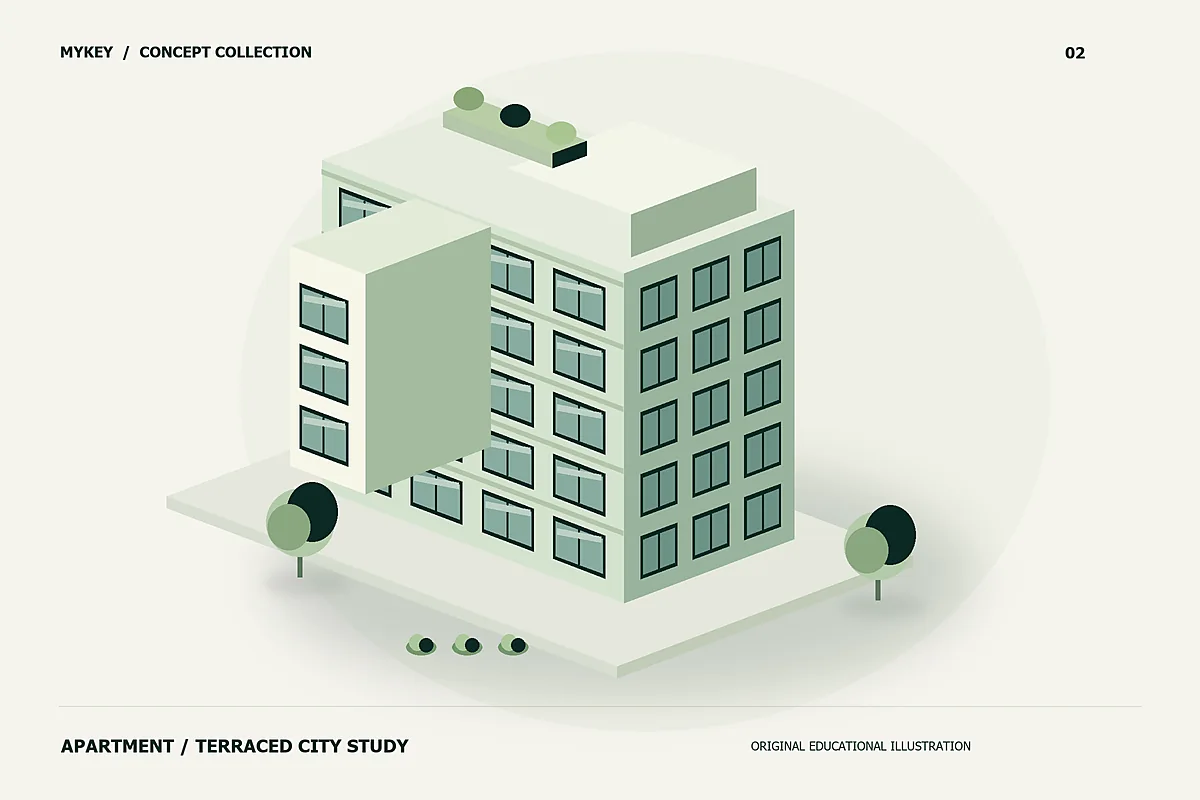
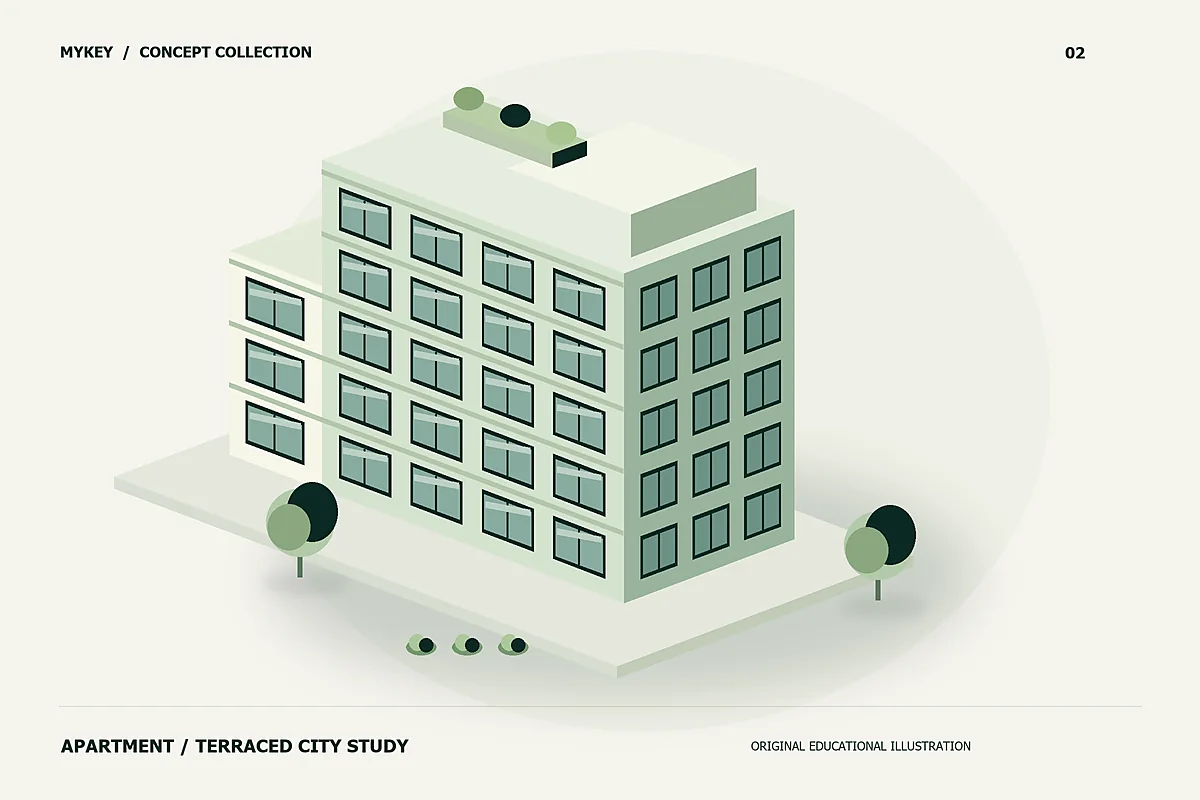
Fix media viewer controls and apartment illustration

Changed region(s): [[0.185, 0.25, 0.4317, 0.625], [0.0925, 0.5938, 0.1542, 0.625]]

diff --git a/expanded.css b/expanded.css
@@ -1,4 +1,4 @@
-.feature-hero{padding-block:55px 38px}.feature-hero h1{font-size:clamp(37px,4.5vw,66px);line-height:1.45;margin:0 0 18px;max-width:900px}.feature-hero>p:last-child{font-size:16px;color:#66805c;max-width:760px;line-height:2}.surface{background:#fffef9;border:1px solid white;border-radius:25px;padding:26px;box-shadow:0 18px 38px -17px #123c3338}.library-controls{display:grid;grid-template-columns:2fr 1fr 1fr auto;gap:20px;align-items:end}.library-controls label,.brief-form label{display:flex;flex-direction:column;gap:8px;font-size:13px;font-weight:700}.library-controls input,.library-controls select,.brief-form input,.brief-form select,.brief-form textarea{font:inherit;color:var(--ink);background:#f6f8ee;border:1px solid #d7e3cd;border-radius:12px;padding:12px;width:100%;min-height:46px}.small-button,.viewer-actions button,.viewer-actions a{font:inherit;font-size:12px;border:1px solid #c4d6b2;background:#eaf3db;color:var(--ink);border-radius:11px;padding:11px 17px;cursor:pointer;display:inline-flex;align-items:center;justify-content:center;gap:8px}.small-button:hover{background:var(--lime)}.feature-note{font-size:12px;color:#728667;line-height:2;margin:22px 0}.library-grid{display:grid;grid-template-columns:repeat(3,1fr);gap:24px;margin:25px 0 70px}.media-card{overflow:hidden;background:#fffef9;border:1px solid white;border-radius:24px;box-shadow:0 15px 30px -15px #123c3335;min-width:0}.media-card button{padding:0;border:0;background:none;width:100%;display:block;text-align:inherit}.media-thumb{position:relative;background:#e8efdc;aspect-ratio:1.5;overflow:hidden}.media-thumb img{width:100%;height:100%;object-fit:cover;transition:transform .25s}.media-card button:hover img{transform:scale(1.03)}.media-card .media-logo img{object-fit:contain;padding:40px}.media-card .media-play{position:absolute;inset:0;display:flex;align-items:center;justify-content:center;font-size:42px;color:var(--lime);text-shadow:0 3px 15px #102f2a88}.media-caption{padding:18px 20px}.media-caption h2{font-size:18px;line-height:1.6;margin:0 0 7px;letter-spacing:0}.media-caption p{font-size:11px;color:#70855f;margin:0}.media-viewer{padding:22px;width:min(1050px,calc(100% - 32px));max-height:92vh;overflow:auto;border:1px solid #fff;border-radius:24px;background:#fffef9;color:var(--ink);box-shadow:0 25px 75px #001b1a77}.media-viewer::backdrop{background:#092a25dd;backdrop-filter:blur(9px)}.viewer-toolbar{display:flex;align-items:center;justify-content:space-between;gap:20px;margin-bottom:16px}.viewer-toolbar h2{font-size:23px;line-height:1.5;letter-spacing:0}.viewer-close{width:40px;height:40px;font-size:29px;border:1px solid #d6e3ca;border-radius:50%;background:#edf4e5;flex-shrink:0}.media-viewer>img,.media-viewer>video{width:100%;max-height:62vh;object-fit:contain;border-radius:15px;background:#eaf0df}.media-viewer>img[hidden],.media-viewer>video[hidden]{display:none}.media-viewer>p{font-size:13px;line-height:1.9;margin-top:15px}.viewer-actions{display:flex;align-items:center;justify-content:center;gap:15px;flex-wrap:wrap;margin-top:18px}.viewer-actions p{font-size:12px;margin:0}.media-viewer details{font-size:13px;line-height:2}.empty-state{text-align:center;padding:45px;margin-bottom:60px}.empty-state h2{font-size:27px}.brief-layout{display:grid;grid-template-columns:1.2fr .8fr;align-items:start;gap:28px;margin-bottom:70px}.brief-form fieldset{border:0;padding:0;margin:0}.brief-form legend{font-size:25px;font-weight:bold;line-height:1.6;margin-bottom:22px}.brief-fields{display:grid;gap:20px}.brief-form textarea{min-height:120px;resize:vertical}.brief-checks{display:grid;grid-template-columns:1fr 1fr;gap:13px;margin:15px 0}.brief-checks label{flex-direction:row;align-items:center;gap:10px;background:#f0f6e7;padding:14px;border:1px solid #dce8cf;border-radius:12px;font-weight:400}.brief-checks input{width:17px;height:17px;min-height:0;accent-color:#466e36}.brief-navigation{display:flex;justify-content:space-between;gap:13px;margin-top:28px}.brief-progress{display:flex;gap:8px;margin:0 0 23px}.brief-progress span{height:6px;flex:1;background:#dfe8d4;border-radius:4px}.brief-progress span.done{background:#6e9650}.brief-preview{position:sticky;top:130px;background:linear-gradient(140deg,#153e32,#305c3a);color:#f5faec;border-color:#3b633c}.brief-preview h2{font-size:26px;line-height:1.5;margin-bottom:20px}.brief-preview pre{white-space:pre-wrap;font:13px/2 Tahoma,Arial,sans-serif;overflow-wrap:anywhere;margin:0}.brief-preview .small-button{margin:20px 0 0;background:var(--lime);border-color:#e5ff9b}.brief-status{min-height:28px;font-size:12px;line-height:1.8}.brief-help{font-size:12px;color:#748a65;line-height:2;margin:16px 0 0}.brief-step[hidden]{display:none}.brief-error{color:#9b392d;font-size:13px;min-height:24px}.brief-summary-actions{display:flex;gap:12px;flex-wrap:wrap}.brief-step-label{font-size:12px;color:#748a65;margin-bottom:12px}@media(max-width:1000px){.library-grid{grid-template-columns:1fr 1fr}.library-controls{grid-template-columns:1fr 1fr}.brief-layout{grid-template-columns:1fr}.brief-preview{position:static}}@media(max-width:600px){.feature-hero{padding-block:32px 24px}.feature-hero h1{font-size:38px}.feature-hero>p:last-child{font-size:14px}.library-controls{grid-template-columns:1fr;gap:17px}.surface{padding:22px;border-radius:22px}.library-grid{grid-template-columns:1fr;gap:23px;margin-bottom:45px}.media-caption h2{font-size:19px}.media-caption p{font-size:12px}.media-viewer{padding:17px}.viewer-toolbar h2{font-size:19px}.viewer-actions{gap:9px}.viewer-actions button,.viewer-actions a{font-size:11px;padding:9px 11px}.brief-checks{grid-template-columns:1fr}.brief-form legend{font-size:23px}.brief-form label{font-size:13px}.brief-layout{gap:22px}.brief-preview pre{font-size:13px}.brief-summary-actions{flex-direction:column}.feature-note{font-size:12px}}@media(prefers-reduced-motion:reduce){.media-thumb img{transition:none}}
+.feature-hero{padding-block:55px 38px}.feature-hero h1{font-size:clamp(37px,4.5vw,66px);line-height:1.45;margin:0 0 18px;max-width:900px}.feature-hero>p:last-child{font-size:16px;color:#66805c;max-width:760px;line-height:2}.surface{background:#fffef9;border:1px solid white;border-radius:25px;padding:26px;box-shadow:0 18px 38px -17px #123c3338}.library-controls{display:grid;grid-template-columns:2fr 1fr 1fr auto;gap:20px;align-items:end}.library-controls label,.brief-form label{display:flex;flex-direction:column;gap:8px;font-size:13px;font-weight:700}.library-controls input,.library-controls select,.brief-form input,.brief-form select,.brief-form textarea{font:inherit;color:var(--ink);background:#f6f8ee;border:1px solid #d7e3cd;border-radius:12px;padding:12px;width:100%;min-height:46px}.small-button,.viewer-actions button{font:inherit;font-size:12px;border:1px solid #c4d6b2;background:#eaf3db;color:var(--ink);border-radius:11px;padding:11px 17px;cursor:pointer;display:inline-flex;align-items:center;justify-content:center;gap:8px}.small-button:hover{background:var(--lime)}.feature-note{font-size:12px;color:#728667;line-height:2;margin:22px 0}.library-grid{display:grid;grid-template-columns:repeat(3,1fr);gap:24px;margin:25px 0 70px}.media-card{overflow:hidden;background:#fffef9;border:1px solid white;border-radius:24px;box-shadow:0 15px 30px -15px #123c3335;min-width:0}.media-card button{padding:0;border:0;background:none;width:100%;display:block;text-align:inherit}.media-thumb{position:relative;background:#e8efdc;aspect-ratio:1.5;overflow:hidden}.media-thumb img{width:100%;height:100%;object-fit:cover;transition:transform .25s}.media-card button:hover img{transform:scale(1.03)}.media-card .media-logo img{object-fit:contain;padding:40px}.media-card .media-play{position:absolute;inset:0;display:flex;align-items:center;justify-content:center;font-size:42px;color:var(--lime);text-shadow:0 3px 15px #102f2a88}.media-caption{padding:18px 20px}.media-caption h2{font-size:18px;line-height:1.6;margin:0 0 7px;letter-spacing:0}.media-caption p{font-size:11px;color:#70855f;margin:0}.media-viewer{padding:22px;width:min(1050px,calc(100% - 32px));max-height:92vh;overflow:auto;border:1px solid #fff;border-radius:24px;background:#fffef9;color:var(--ink);box-shadow:0 25px 75px #001b1a77}.media-viewer::backdrop{background:#092a25dd;backdrop-filter:blur(9px)}.viewer-toolbar{display:flex;align-items:center;justify-content:space-between;gap:20px;margin-bottom:16px}.viewer-toolbar h2{font-size:23px;line-height:1.5;letter-spacing:0}.viewer-close{display:grid;place-items:center;width:40px;height:40px;padding:0;border:1px solid #d6e3ca;border-radius:50%;background:#edf4e5;flex-shrink:0}.viewer-close svg{display:block;width:20px;height:20px}.media-viewer>img,.media-viewer>video{width:100%;max-height:62vh;object-fit:contain;border-radius:15px;background:#eaf0df}.media-viewer>img[hidden],.media-viewer>video[hidden]{display:none}.media-viewer>p{font-size:13px;line-height:1.9;margin-top:15px}.viewer-actions{display:flex;align-items:center;justify-content:center;gap:15px;flex-wrap:wrap;margin-top:18px}.viewer-actions p{font-size:12px;margin:0}.media-viewer details{font-size:13px;line-height:2}.empty-state{text-align:center;padding:45px;margin-bottom:60px}.empty-state h2{font-size:27px}.brief-layout{display:grid;grid-template-columns:1.2fr .8fr;align-items:start;gap:28px;margin-bottom:70px}.brief-form fieldset{border:0;padding:0;margin:0}.brief-form legend{font-size:25px;font-weight:bold;line-height:1.6;margin-bottom:22px}.brief-fields{display:grid;gap:20px}.brief-form textarea{min-height:120px;resize:vertical}.brief-checks{display:grid;grid-template-columns:1fr 1fr;gap:13px;margin:15px 0}.brief-checks label{flex-direction:row;align-items:center;gap:10px;background:#f0f6e7;padding:14px;border:1px solid #dce8cf;border-radius:12px;font-weight:400}.brief-checks input{width:17px;height:17px;min-height:0;accent-color:#466e36}.brief-navigation{display:flex;justify-content:space-between;gap:13px;margin-top:28px}.brief-progress{display:flex;gap:8px;margin:0 0 23px}.brief-progress span{height:6px;flex:1;background:#dfe8d4;border-radius:4px}.brief-progress span.done{background:#6e9650}.brief-preview{position:sticky;top:130px;background:linear-gradient(140deg,#153e32,#305c3a);color:#f5faec;border-color:#3b633c}.brief-preview h2{font-size:26px;line-height:1.5;margin-bottom:20px}.brief-preview pre{white-space:pre-wrap;font:13px/2 Tahoma,Arial,sans-serif;overflow-wrap:anywhere;margin:0}.brief-preview .small-button{margin:20px 0 0;background:var(--lime);border-color:#e5ff9b}.brief-status{min-height:28px;font-size:12px;line-height:1.8}.brief-help{font-size:12px;color:#748a65;line-height:2;margin:16px 0 0}.brief-step[hidden]{display:none}.brief-error{color:#9b392d;font-size:13px;min-height:24px}.brief-summary-actions{display:flex;gap:12px;flex-wrap:wrap}.brief-step-label{font-size:12px;color:#748a65;margin-bottom:12px}@media(max-width:1000px){.library-grid{grid-template-columns:1fr 1fr}.library-controls{grid-template-columns:1fr 1fr}.brief-layout{grid-template-columns:1fr}.brief-preview{position:static}}@media(max-width:600px){.feature-hero{padding-block:32px 24px}.feature-hero h1{font-size:38px}.feature-hero>p:last-child{font-size:14px}.library-controls{grid-template-columns:1fr;gap:17px}.surface{padding:22px;border-radius:22px}.library-grid{grid-template-columns:1fr;gap:23px;margin-bottom:45px}.media-caption h2{font-size:19px}.media-caption p{font-size:12px}.media-viewer{padding:17px}.viewer-toolbar h2{font-size:19px}.viewer-actions{gap:9px}.viewer-actions button{font-size:11px;padding:9px 11px}.brief-checks{grid-template-columns:1fr}.brief-form legend{font-size:23px}.brief-form label{font-size:13px}.brief-layout{gap:22px}.brief-preview pre{font-size:13px}.brief-summary-actions{flex-direction:column}.feature-note{font-size:12px}}@media(prefers-reduced-motion:reduce){.media-thumb img{transition:none}}
 
 .feature-note,
 .media-caption p,

diff --git a/media.html b/media.html
@@ -7,4 +7,4 @@
       <button class="menu-toggle" type="button" aria-controls="main-nav" aria-expanded="false"><span>القائمة</span><span class="menu-lines" aria-hidden="true"></span></button>
       <nav id="main-nav" aria-label="التنقل الرئيسي"><a class="" href="about.html">من نحن</a><a class="" href="services/index.html">حلولنا</a><a class="" href="index.html#projects">مشاريعنا</a><a class=" active" href="media.html">شاهد القصة</a><a class="nav-brief" href="brief.html">ابدأ مشروعك</a><a class="language-switch" href="en/media.html" lang="en" hreflang="en">EN</a></nav>
     </div>
-  </header><main id="main"><section class="feature-hero shell"><p class="eyebrow">SMART LAND / MEDIA</p><h1>الفكرة، بالصوت والصورة.</h1><p>استكشف الهوية البصرية وتصورات المشروعات والأفلام الأصلية في معرض واحد قابل للبحث.</p></section><section class="shell media-library" aria-label="مكتبة الوسائط"><div class="library-controls surface"><label>ابحث في الوسائط<input id="media-search" type="search" placeholder="جرّب MyKey أو الهوية"></label><label>الصيغة<select id="media-type"><option value="all">كل الصيغ</option><option value="image">الصور</option><option value="video">الأفلام</option></select></label><label>الموضوع<select id="media-category"><option value="all">كل المواضيع</option><option value="identity">الهوية</option><option value="project">المشروعات</option><option value="demo">التجربة التفاعلية</option></select></label><button class="small-button" id="media-reset" type="button">إعادة الضبط</button></div><p class="feature-note">وسائط تعليمية أصلية: واجهات ورسوم تصورية، ومشهد رئيسي مولد بالذكاء الاصطناعي، وفيلمان بموسيقى أصلية. جميع الصور بصيغة WEBP.</p><p id="media-count" role="status" aria-live="polite"></p><div id="media-grid" class="library-grid"></div><div id="media-empty" class="surface empty-state" hidden><h2>لا توجد وسائط مطابقة</h2><p>جرّب بحثاً أوسع أو أعد ضبط الفلاتر.</p><button type="button" id="media-empty-reset" class="small-button">إعادة الضبط</button></div></section><dialog id="media-viewer" class="media-viewer" aria-labelledby="media-view-title"><div class="viewer-toolbar"><h2 id="media-view-title"></h2><button class="viewer-close" type="button" aria-label="إغلاق العارض">×</button></div><img id="media-view-image" src="assets/hero.webp" alt=""><video id="media-view-video" controls playsinline preload="metadata" hidden></video><p id="media-view-description"></p><details id="media-transcript" hidden><summary>النص البديل</summary><p id="media-transcript-text"></p></details><div class="viewer-actions"><button id="media-prev" type="button">العنصر السابق</button><p id="media-position"></p><button id="media-next" type="button">العنصر التالي</button><a id="media-download" href="assets/hero.webp" download>تحميل الأصل</a></div></dialog></main><footer class="site-footer"><div class="shell"><a class="footer-brand" href="index.html" dir="ltr">smart land<span>.</span></a><p>مشروع مقرر نظم الوسائط المتعددة<br><bdi>ITE_BMM601 + ISE_MM · F25</bdi></p><a class="back-top" href="#main">إلى الأعلى <span aria-hidden="true">↑</span></a><p class="footer-disclaimer">شركة افتراضية ضمن مشروع تعليمي. معلومات الشركة الأساسية مستمدة من موجز الوظيفة. الصور تصوّرات تصميمية، واستُخدم الذكاء الاصطناعي في إعداد الصورة الرئيسية وجزء من المحتوى.</p></div></footer></body></html>
+  </header><main id="main"><section class="feature-hero shell"><p class="eyebrow">SMART LAND / MEDIA</p><h1>الفكرة، بالصوت والصورة.</h1><p>استكشف الهوية البصرية وتصورات المشروعات والأفلام الأصلية في معرض واحد قابل للبحث.</p></section><section class="shell media-library" aria-label="مكتبة الوسائط"><div class="library-controls surface"><label>ابحث في الوسائط<input id="media-search" type="search" placeholder="جرّب MyKey أو الهوية"></label><label>الصيغة<select id="media-type"><option value="all">كل الصيغ</option><option value="image">الصور</option><option value="video">الأفلام</option></select></label><label>الموضوع<select id="media-category"><option value="all">كل المواضيع</option><option value="identity">الهوية</option><option value="project">المشروعات</option><option value="demo">التجربة التفاعلية</option></select></label><button class="small-button" id="media-reset" type="button">إعادة الضبط</button></div><p class="feature-note">وسائط تعليمية أصلية: واجهات ورسوم تصورية، ومشهد رئيسي مولد بالذكاء الاصطناعي، وفيلمان بموسيقى أصلية. جميع الصور بصيغة WEBP.</p><p id="media-count" role="status" aria-live="polite"></p><div id="media-grid" class="library-grid"></div><div id="media-empty" class="surface empty-state" hidden><h2>لا توجد وسائط مطابقة</h2><p>جرّب بحثاً أوسع أو أعد ضبط الفلاتر.</p><button type="button" id="media-empty-reset" class="small-button">إعادة الضبط</button></div></section><dialog id="media-viewer" class="media-viewer" aria-labelledby="media-view-title"><div class="viewer-toolbar"><h2 id="media-view-title"></h2><button class="viewer-close" type="button" aria-label="إغلاق العارض"><svg viewBox="0 0 24 24" aria-hidden="true" focusable="false"><path d="M6 6l12 12M18 6L6 18" fill="none" stroke="currentColor" stroke-width="2.25" stroke-linecap="round"/></svg></button></div><img id="media-view-image" src="assets/hero.webp" alt=""><video id="media-view-video" controls playsinline preload="metadata" hidden></video><p id="media-view-description"></p><details id="media-transcript" hidden><summary>النص البديل</summary><p id="media-transcript-text"></p></details><div class="viewer-actions"><button id="media-prev" type="button">العنصر السابق</button><p id="media-position"></p><button id="media-next" type="button">العنصر التالي</button></div></dialog></main><footer class="site-footer"><div class="shell"><a class="footer-brand" href="index.html" dir="ltr">smart land<span>.</span></a><p>مشروع مقرر نظم الوسائط المتعددة<br><bdi>ITE_BMM601 + ISE_MM · F25</bdi></p><a class="back-top" href="#main">إلى الأعلى <span aria-hidden="true">↑</span></a><p class="footer-disclaimer">شركة افتراضية ضمن مشروع تعليمي. معلومات الشركة الأساسية مستمدة من موجز الوظيفة. الصور تصوّرات تصميمية، واستُخدم الذكاء الاصطناعي في إعداد الصورة الرئيسية وجزء من المحتوى.</p></div></footer></body></html>

diff --git a/en/media.html b/en/media.html
@@ -7,4 +7,4 @@
       <button class="menu-toggle" type="button" aria-controls="main-nav" aria-expanded="false"><span>Menu</span><span class="menu-lines" aria-hidden="true"></span></button>
       <nav id="main-nav" aria-label="Main navigation"><a class="" href="about.html">About</a><a class="" href="services/index.html">Services</a><a class="" href="index.html#projects">Projects</a><a class=" active" href="media.html">Media</a><a class="nav-brief" href="brief.html">Start a project</a><a class="language-switch" href="../media.html" lang="ar" hreflang="ar">العربية</a></nav>
     </div>
-  </header><main id="main"><section class="feature-hero shell"><p class="eyebrow">SMART LAND / MEDIA</p><h1>Media in motion.</h1><p>Explore the visual identity, project concepts and original films in one searchable gallery.</p></section><section class="shell media-library" aria-label="Media library"><div class="library-controls surface"><label>Search media<input id="media-search" type="search" placeholder="Try MyKey or identity"></label><label>Format<select id="media-type"><option value="all">All formats</option><option value="image">Images</option><option value="video">Films</option></select></label><label>Subject<select id="media-category"><option value="all">All subjects</option><option value="identity">Identity</option><option value="project">Projects</option><option value="demo">Interactive demo</option></select></label><button class="small-button" id="media-reset" type="button">Reset</button></div><p class="feature-note">Original educational visuals: concept interfaces and illustrations, an AI-generated hero, and two edited films with original music. All images are WEBP.</p><p id="media-count" role="status" aria-live="polite"></p><div id="media-grid" class="library-grid"></div><div id="media-empty" class="surface empty-state" hidden><h2>No matching media</h2><p>Try a wider search or reset the filters.</p><button type="button" id="media-empty-reset" class="small-button">Reset</button></div></section><dialog id="media-viewer" class="media-viewer" aria-labelledby="media-view-title"><div class="viewer-toolbar"><h2 id="media-view-title"></h2><button class="viewer-close" type="button" aria-label="Close viewer">×</button></div><img id="media-view-image" src="../assets/hero.webp" alt=""><video id="media-view-video" controls playsinline preload="metadata" hidden></video><p id="media-view-description"></p><details id="media-transcript" hidden><summary>Transcript</summary><p id="media-transcript-text"></p></details><div class="viewer-actions"><button id="media-prev" type="button">Previous item</button><p id="media-position"></p><button id="media-next" type="button">Next item</button><a id="media-download" href="../assets/hero.webp" download>Download original</a></div></dialog></main><footer class="site-footer"><div class="shell"><a class="footer-brand" href="index.html" dir="ltr">smart land<span>.</span></a><p>Multimedia Systems course project<br><bdi>ITE_BMM601 + ISE_MM · F25</bdi></p><a class="back-top" href="#main">Back to top <span aria-hidden="true">↑</span></a><p class="footer-disclaimer">A fictional company in an educational project. Core company information comes from the assignment brief. Images are design concepts; AI assisted with the hero image and some content.</p></div></footer></body></html>
+  </header><main id="main"><section class="feature-hero shell"><p class="eyebrow">SMART LAND / MEDIA</p><h1>Media in motion.</h1><p>Explore the visual identity, project concepts and original films in one searchable gallery.</p></section><section class="shell media-library" aria-label="Media library"><div class="library-controls surface"><label>Search media<input id="media-search" type="search" placeholder="Try MyKey or identity"></label><label>Format<select id="media-type"><option value="all">All formats</option><option value="image">Images</option><option value="video">Films</option></select></label><label>Subject<select id="media-category"><option value="all">All subjects</option><option value="identity">Identity</option><option value="project">Projects</option><option value="demo">Interactive demo</option></select></label><button class="small-button" id="media-reset" type="button">Reset</button></div><p class="feature-note">Original educational visuals: concept interfaces and illustrations, an AI-generated hero, and two edited films with original music. All images are WEBP.</p><p id="media-count" role="status" aria-live="polite"></p><div id="media-grid" class="library-grid"></div><div id="media-empty" class="surface empty-state" hidden><h2>No matching media</h2><p>Try a wider search or reset the filters.</p><button type="button" id="media-empty-reset" class="small-button">Reset</button></div></section><dialog id="media-viewer" class="media-viewer" aria-labelledby="media-view-title"><div class="viewer-toolbar"><h2 id="media-view-title"></h2><button class="viewer-close" type="button" aria-label="Close viewer"><svg viewBox="0 0 24 24" aria-hidden="true" focusable="false"><path d="M6 6l12 12M18 6L6 18" fill="none" stroke="currentColor" stroke-width="2.25" stroke-linecap="round"/></svg></button></div><img id="media-view-image" src="../assets/hero.webp" alt=""><video id="media-view-video" controls playsinline preload="metadata" hidden></video><p id="media-view-description"></p><details id="media-transcript" hidden><summary>Transcript</summary><p id="media-transcript-text"></p></details><div class="viewer-actions"><button id="media-prev" type="button">Previous item</button><p id="media-position"></p><button id="media-next" type="button">Next item</button></div></dialog></main><footer class="site-footer"><div class="shell"><a class="footer-brand" href="index.html" dir="ltr">smart land<span>.</span></a><p>Multimedia Systems course project<br><bdi>ITE_BMM601 + ISE_MM · F25</bdi></p><a class="back-top" href="#main">Back to top <span aria-hidden="true">↑</span></a><p class="footer-disclaimer">A fictional company in an educational project. Core company information comes from the assignment brief. Images are design concepts; AI assisted with the hero image and some content.</p></div></footer></body></html>

diff --git a/media.js b/media.js
@@ -16,7 +16,7 @@ let visible=[],active=0,trigger=null;
 function render(){const query=search.value.trim().toLocaleLowerCase();visible=items.filter(x=>(type.value==='all'||(x.type||'image')===type.value)&&(category.value==='all'||x.category===category.value)&&(!query||(x.title.join(' ')+' '+x.description.join(' ')+' '+x.category+' '+({identity:'الهوية هوية visual brand',project:'المشاريع مشروعات projects',demo:'تجربة تفاعلية interactive demo'})[x.category]).toLocaleLowerCase().includes(query)));grid.innerHTML=visible.map(x=>`<article class="media-card"><button type="button" data-media="${x.id}"><div class="media-thumb ${x.id==='logo'?'media-logo':''}"><img src="${base}${x.poster||x.file}" width="1200" height="800" loading="lazy" alt="${tx(x.title)}">${x.type==='video'?'<span class="media-play" aria-hidden="true">▶</span>':''}</div><div class="media-caption"><h2>${tx(x.title)}</h2><p>${x.type==='video'?'MP4 / H.264 + AAC':'WEBP'} · ${en?'Educational concept':'تصوّر تعليمي'}</p></div></button></article>`).join('');document.querySelector('#media-count').textContent=en?`${visible.length} of ${items.length} media items`:`${visible.length} من أصل ${items.length} عنصر وسائط`;document.querySelector('#media-empty').hidden=visible.length>0;}
 function reset(){search.value='';type.value='all';category.value='all';render();}
 function stopVideo(){video.pause();video.removeAttribute('src');video.querySelectorAll('track').forEach(t=>t.remove());video.load();}
-function show(index){stopVideo();active=(index+visible.length)%visible.length;const item=visible[active];document.querySelector('#media-view-title').textContent=tx(item.title);document.querySelector('#media-view-description').textContent=tx(item.description);document.querySelector('#media-position').textContent=`${active+1} / ${visible.length}`;const movie=item.type==='video';image.hidden=movie;video.hidden=!movie;document.querySelector('#media-transcript').hidden=!movie;if(movie){video.src=base+item.file;video.poster=base+item.poster;for(const lang of ['ar','en']){const track=document.createElement('track');track.kind=lang==='en'?'captions':'subtitles';track.src=base+item.file.replace(/\.mp4$/,'')+'-'+lang+'.vtt';track.srclang=lang;track.label=lang==='ar'?'العربية':'English';track.default=lang===(en?'en':'ar');video.append(track);}video.volume=.8;document.querySelector('#media-transcript-text').textContent=tx(item.transcript);}else{image.src=base+item.file;image.alt=tx(item.title);}const download=document.querySelector('#media-download');download.href=base+item.file;download.download=item.file.split('/').pop();}
+function show(index){stopVideo();active=(index+visible.length)%visible.length;const item=visible[active];document.querySelector('#media-view-title').textContent=tx(item.title);document.querySelector('#media-view-description').textContent=tx(item.description);document.querySelector('#media-position').textContent=`${active+1} / ${visible.length}`;const movie=item.type==='video';image.hidden=movie;video.hidden=!movie;document.querySelector('#media-transcript').hidden=!movie;if(movie){video.src=base+item.file;video.poster=base+item.poster;for(const lang of ['ar','en']){const track=document.createElement('track');track.kind=lang==='en'?'captions':'subtitles';track.src=base+item.file.replace(/\.mp4$/,'')+'-'+lang+'.vtt';track.srclang=lang;track.label=lang==='ar'?'العربية':'English';track.default=lang===(en?'en':'ar');video.append(track);}video.volume=.8;document.querySelector('#media-transcript-text').textContent=tx(item.transcript);}else{image.src=base+item.file;image.alt=tx(item.title);}}
 grid.addEventListener('click',event=>{const button=event.target.closest('[data-media]');if(!button)return;trigger=button;show(visible.findIndex(x=>x.id===button.dataset.media));dialog.showModal();document.body.style.overflow='hidden';dialog.querySelector('.viewer-close').focus();});
 dialog.querySelector('.viewer-close').addEventListener('click',()=>dialog.close());dialog.addEventListener('close',()=>{stopVideo();document.body.style.overflow='';if(trigger?.isConnected)trigger.focus({preventScroll:true});});
 document.querySelector('#media-prev').addEventListener('click',()=>show(active-1));document.querySelector('#media-next').addEventListener('click',()=>show(active+1));dialog.addEventListener('keydown',event=>{if(event.target===video)return;if(event.key==='ArrowRight'){event.preventDefault();show(active+(en?1:-1));}if(event.key==='ArrowLeft'){event.preventDefault();show(active+(en?-1:1));}});
